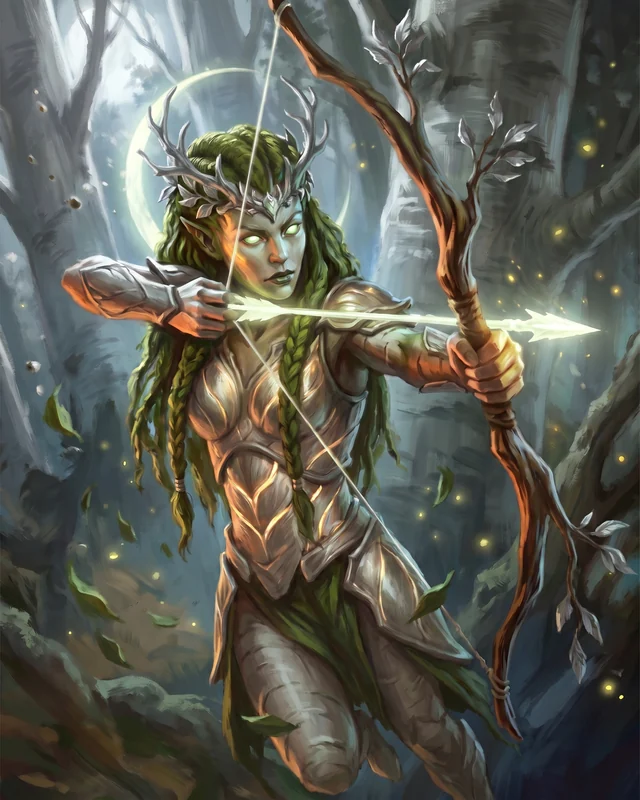
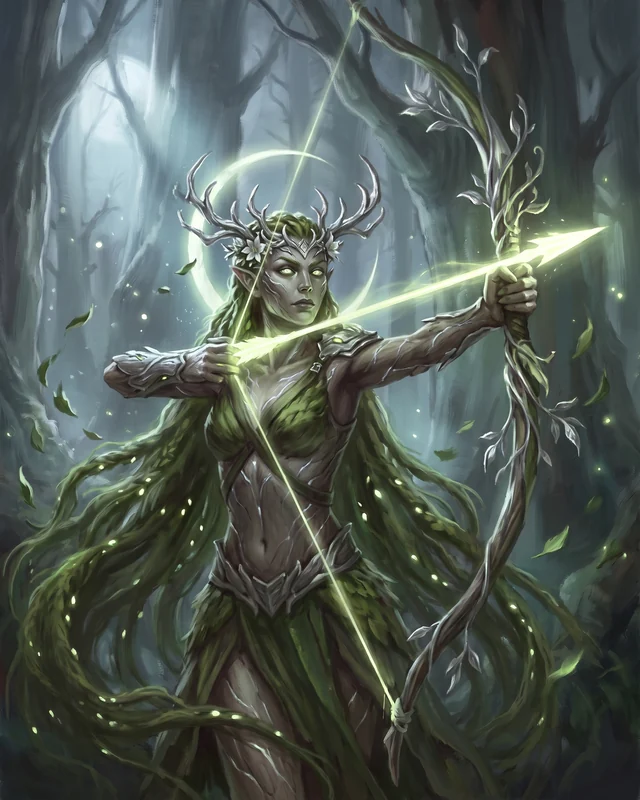
art+ui: dryad archer line v2 plates, cache bump, readable line thumbnails
The three dryad plates now paint one character across three stages, so the
promotion preview finally has something to show. Three changes to let players
actually see it:

- Bring the new vd_dryad / vd_moonshade / vd_matriarch plates onto main (they
  landed on the prototype branch). Same filenames, art only.
- Bump the service worker CACHE to v3. The warm-art handler skips any URL
  already cached, so without a version bump installed players would keep the
  old plates forever; `activate` drops every non-current cache key.
- Fix the promotion-line thumbnail crop. The plates are full-body 4:5 and the
  .line-form-art box is 4:5 too, so `cover` had no overflow to trim and the
  declared object-position was inert — all three forms shrank to near-identical
  34px smudges. Zoom to the head instead, anchored where the faces sit, so the
  novice, the markswoman and the antlered matriarch read as three faces.

No engine, data or test changes; 106 tests pass untouched.

Claude-Session: https://claude.ai/code/session_01YCYG88NAEZMnonhFN2jFfH

diff --git a/src/ui/styles.css b/src/ui/styles.css
@@ -1164,6 +1164,16 @@ h3 {
   place-items: center;
   color: color-mix(in srgb, var(--sc) 70%, #fff);
 }
+/* The plates are full-body 4:5 paintings and this box is 4:5 too, so `cover`
+   has no overflow to trim — object-position is inert here and the whole figure
+   shrinks to a 34px smudge, which makes the three forms of a line look
+   identical. Zoom into the head instead, anchored where the faces actually sit
+   (a little above centre, dryad through matriarch), so the row reads as three
+   faces rather than three green stamps. */
+.line-form-art .plate {
+  transform: scale(1.9);
+  transform-origin: 50% 32%;
+}
 
 /* ── Cover (Design Notes 02 §3) ──────────────────────────────────────────── */
 

diff --git a/public/sw.js b/public/sw.js
@@ -2,7 +2,7 @@
    itself is network-first — index.html points at hashed bundles, and serving a
    stale copy would pin returning players to an old deploy forever.
    Bump CACHE to invalidate. */
-const CACHE = 'bannerfell-v2'
+const CACHE = 'bannerfell-v3'
 const SHELL = ['/', '/index.html', '/manifest.webmanifest', '/icon.svg']
 
 self.addEventListener('install', (e) => {
